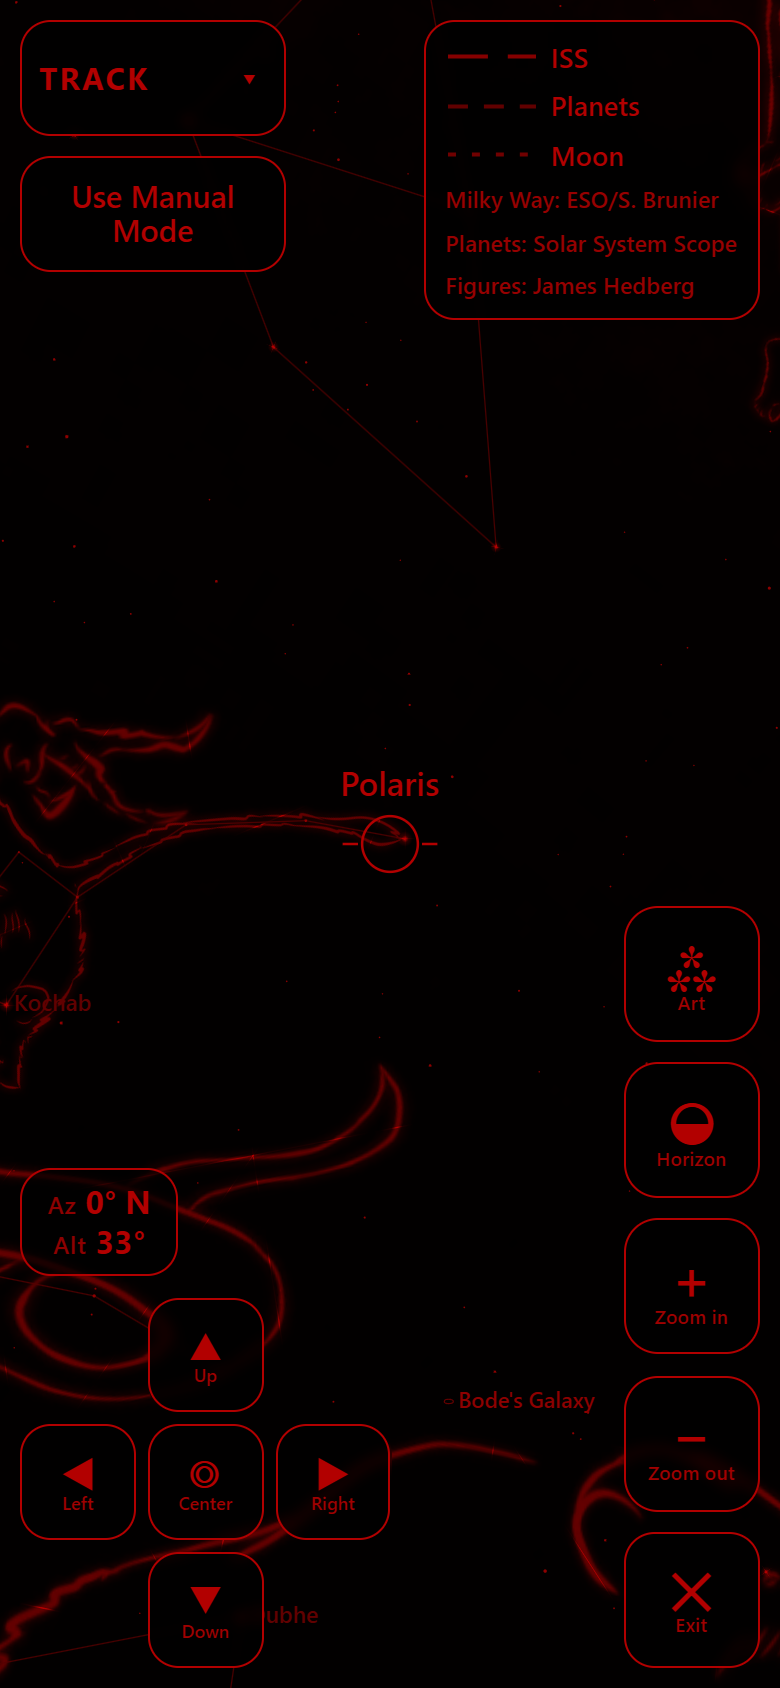
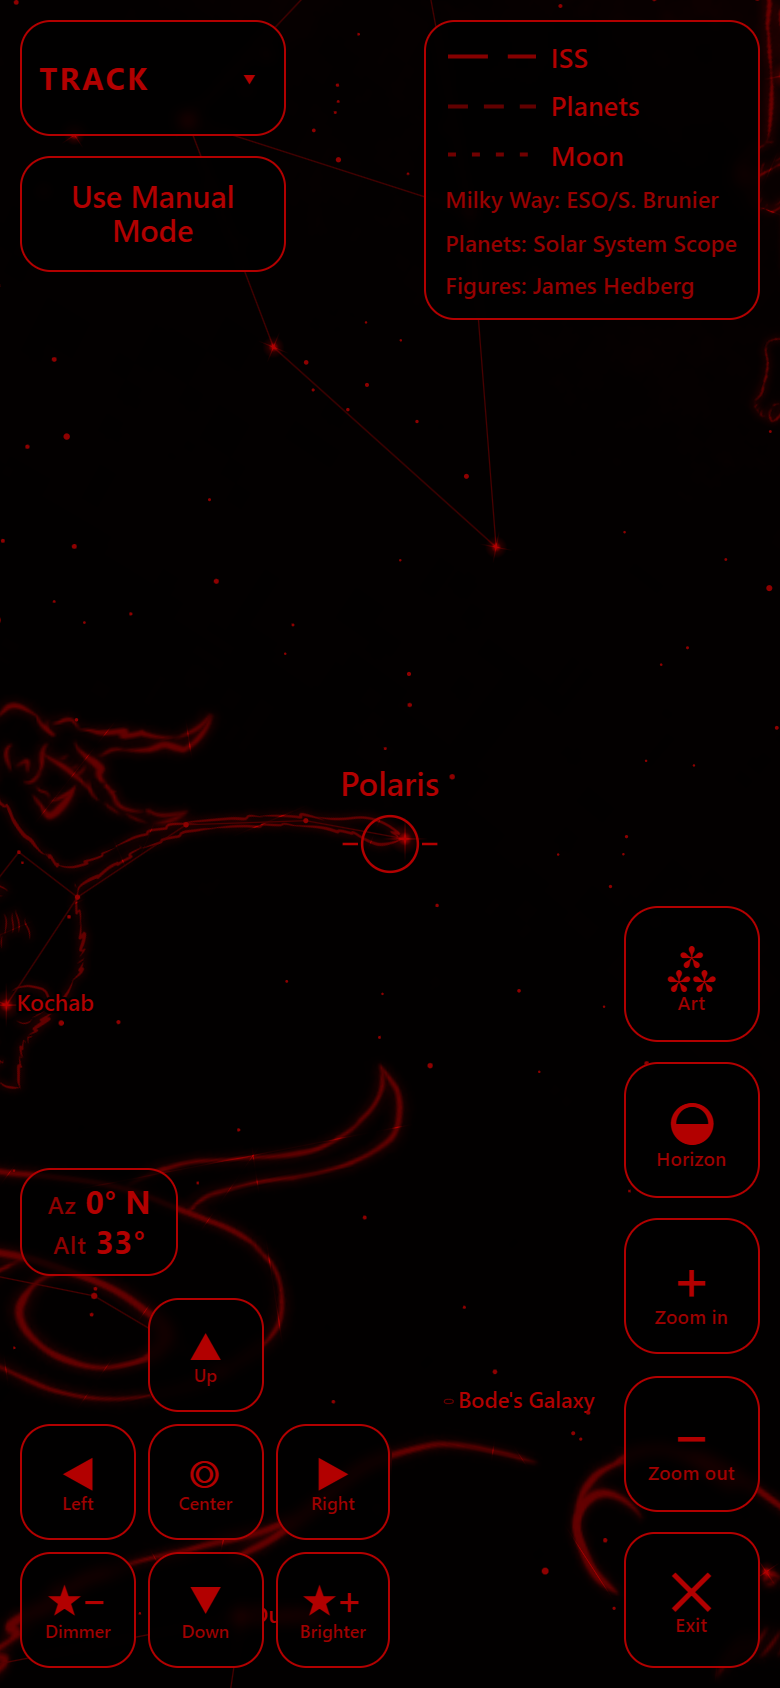
fix(readme): say plainly it is for physical disabilities, limited fine motor control and low vision, and a night-sky guide too; add screenshots (#214)
* fix(readme): say plainly that polaris is for physical disabilities, limited fine motor control and low vision

Kelly: "nowhere does this directly say people with physical disabilities,
lacking fine motor control, or low vision. this should be much clearer and
show up in searches", and "it's made for disabilities by disabled, but
usable by all".

The README now opens with exactly that: made for astronomers with
disabilities, by a disabled astronomer, usable by everyone, and built for
physical disabilities, limited fine motor control and low vision, each
backed by what the app does (spoken numbers written out in words, single
taps, buttons that stay put, text to 1.6x, high contrast, red Night Mode).
The page title, its search and share descriptions, the install manifest and
package.json (now with keywords) say the same, so searches find it.

The README shows three screenshots, retaken with scripts/capture-pwa-images
from the current app: the old ones predated the Docs button and the star
buttons, and they are the install sheet's pictures too. They are sized with
<img width>, so the .txt twin generator now turns an <img> into its alt
text the way it already did a markdown image, with a test. Cache key
0.0.1.0.49.

Closes #213

* fix(readme): describe polaris as the night-sky guide it has become, not only an alignment tool

Kelly: "it started as a polaris locator but has grown to find iss,
planets, constellations, galaxies, etc". Every description still called it
[…]

diff --git a/site/index.html b/site/index.html
@@ -7,8 +7,8 @@
 <meta charset="utf-8">
 <meta name="viewport" content="width=device-width, initial-scale=1, viewport-fit=cover">
 <meta name="theme-color" content="#080b14">
-<title>evo.polaris — polar alignment</title>
-<meta name="description" content="Free polar alignment for star trackers and equatorial mounts, made for astronomers with disabilities. It works offline, reads every number aloud, and never asks you to pinch, drag or press-and-hold.">
+<title>evo.polaris — accessible polar alignment and night-sky guide</title>
+<meta name="description" content="Free, accessible polar alignment and night-sky guide: find Polaris, the ISS, the planets, constellations and galaxies. Made for astronomers with physical disabilities, limited fine motor control or low vision, and usable by everyone.">
 <link rel="canonical" href="https://polaris.evomedia.net/">
 
 <!-- Open Graph. The page is shared by link - in forums, in messages, to one
@@ -17,8 +17,8 @@
      og:image must be absolute: scrapers do not resolve relative paths. -->
 <meta property="og:type" content="website">
 <meta property="og:site_name" content="evo.polaris">
-<meta property="og:title" content="evo.polaris — polar alignment">
-<meta property="og:description" content="Free polar alignment for star trackers and equatorial mounts, made for astronomers with disabilities. It works offline, reads every number aloud, and never asks you to pinch, drag or press-and-hold.">
+<meta property="og:title" content="evo.polaris — accessible polar alignment and night-sky guide">
+<meta property="og:description" content="Free, accessible polar alignment and night-sky guide: find Polaris, the ISS, the planets, constellations and galaxies. Made for astronomers with physical disabilities, limited fine motor control or low vision, and usable by everyone.">
 <meta property="og:url" content="https://polaris.evomedia.net/">
 <meta property="og:image" content="https://polaris.evomedia.net/og-card.png?v=3">
 <meta property="og:image:type" content="image/png">
@@ -26,8 +26,8 @@
 <meta property="og:image:height" content="630">
 <meta property="og:image:alt" content="The evo.polaris sky chart: Polaris circled at the pole, with the Big Dipper's pointer stars aimed at it.">
 <meta name="twitter:card" content="summary_large_image">
-<meta name="twitter:title" content="evo.polaris — polar alignment">
-<meta name="twitter:description" content="Free polar alignment for star trackers and equatorial mounts, made for astronomers with disabilities. It works offline, reads every number aloud, and never asks you to pinch, drag or press-and-hold.">
+<meta name="twitter:title" content="evo.polaris — accessible polar alignment and night-sky guide">
+<meta name="twitter:description" content="Free, accessible polar alignment and night-sky guide: find Polaris, the ISS, the planets, constellations and galaxies. Made for astronomers with physical disabilities, limited fine motor control or low vision, and usable by everyone.">
 <meta name="twitter:image" content="https://polaris.evomedia.net/og-card.png?v=3">
 <meta name="twitter:image:alt" content="The evo.polaris sky chart: Polaris circled at the pole, with the Big Dipper's pointer stars aimed at it.">
 

diff --git a/site/sw.js b/site/sw.js
@@ -21,7 +21,7 @@
 //
 // This is a CACHE KEY, not the release stamp. build-version.json stays where
 // it is; the build advances once per release on the default branch.
-const VERSION = '0.0.1.0.48';
+const VERSION = '0.0.1.0.49';
 const CACHE = `evo-polaris-${VERSION}`;
 
 const ASSETS = [

diff --git a/README.md b/README.md
@@ -1,12 +1,36 @@
 # evo.polaris
 
-Free, open-source polar alignment for star trackers and equatorial mounts —
-built to be usable by astronomers who can't crouch behind an eyepiece, hold a
-phone steady, or work a fiddly touch target in the dark.
+Free, open-source polar alignment and night-sky guide for star trackers and
+equatorial mounts. **Made for astronomers with disabilities, by a disabled astronomer.**
+**Usable by everyone.**
+
+It started as a way to find Polaris and has grown into a guide to the whole
+night sky: one tap points you at **the International Space Station**,
+**the planets**, **the Moon and the Sun**, **28 constellations** and
+**the fifteen brightest galaxies**, with the Milky Way drawn behind them.
+
+It is built for people with **physical disabilities**,
+**limited fine motor control** (a tremor, a weak grip, hands that can't land on
+a small target) and **low vision**: astronomers who can't crouch behind an
+eyepiece, hold a phone steady, or work a fiddly touch target in the dark.
+Everyone else gets an app that is simply easier to use at night.
 
 Many apps for this job cost money, and most assume a body that cooperates.
-This one is free, works offline, reads its numbers out loud, and never asks you
-to drag, pinch, double-tap or press-and-hold.
+This one is free and works offline, and:
+
+- **reads its numbers out loud**, and writes each one out in words as well as
+  digits;
+- **needs single taps only**: no dragging, pinching, double-tapping or
+  press-and-hold;
+- **keeps its large buttons where they are**, so nothing moves under your
+  finger;
+- **scales its text up to 1.6×**, in high-contrast colours, with a pure-red
+  Night Mode that keeps your eyes dark-adapted.
+
+<img src="site/screenshots/phone-tracker.png" width="280" alt="evo.polaris on a phone: the latitude to set, 32.80 degrees, also written out as thirty-two degrees, forty-eight minutes, and Polaris at 8:23 on the polar-scope reticle, drawn as a clock dial.">
+<img src="site/screenshots/phone-night.png" width="280" alt="The full-screen sky view in Night Mode, pure red on black, with large labelled buttons for moving, zooming and dimming the stars.">
+
+<img src="site/screenshots/desktop-sky.png" width="720" alt="The sky view on a desktop: Polaris circled at the end of the Little Dipper, with large labelled buttons for moving around the sky, zooming, and making the stars brighter or dimmer.">
 
 ## What it tells you
 
@@ -19,8 +43,29 @@ a mount:
 | **Compass bearing for true north** | Magnetic declination is corrected on-device, so the azimuth you set is true north and not magnetic north. |
 | **Polaris on the reticle** | Clock position and radius on the 12-hour iOptron AccuAlign dial, drawn as well as written. |
 
-Plus a live sky chart of the circumpolar sky with the Big Dipper star-hop drawn
-on it, and — with the compass on — arrows telling you which way to turn.
+## Finding things in the sky
+
+The sky view is a live chart of the sky above you tonight, and its **Track**
+menu points you at something with one tap:
+
+- **Polaris**, with the Big Dipper star-hop drawn to it (the Southern Cross in
+  the south).
+- **The International Space Station**, where it is right now, with its path
+  across your sky. This is the one part of the app that needs the internet; it
+  asks a free tracker, and everything else is worked out on your phone.
+- **The Moon** and **the Sun**.
+- **The planets**: one button, tapped again and again, walks outward from the
+  Sun, Mercury first and Pluto last.
+- **28 constellations**, the same way, each drawn as a stick figure, with
+  James Hedberg's artwork behind it if you want it.
+- **The fifteen brightest galaxies**, brightest first, each drawn at its true
+  size, the Andromeda Galaxy three degrees across.
+
+A switch skips planets and constellations that are below the horizon. With the
+compass on, arrows tell you which way to turn. Without it, Manual Mode moves
+the view with Up, Down, Left and Right buttons, so you never have to hold the
+phone up to the sky. The stars can be made brighter or dimmer, and the whole
+view goes full screen.
 
 ## Both hemispheres
 
